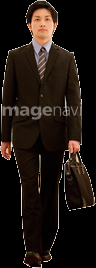
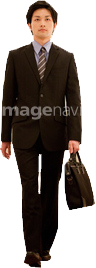
Fixed sprites

diff --git a/js/scenes/game.js b/js/scenes/game.js
@@ -4,8 +4,8 @@ class GameScene extends Phaser.Scene {
     }
 
     preload() {
-        this.load.image('player', '../Res/player.jpg');
-        this.load.image('obstacle', '../Res/passerby.jpg');
+        this.load.image('player', '../Res/player.png');
+        this.load.image('obstacle', '../Res/passerby.png');
     }
 
     create() {
